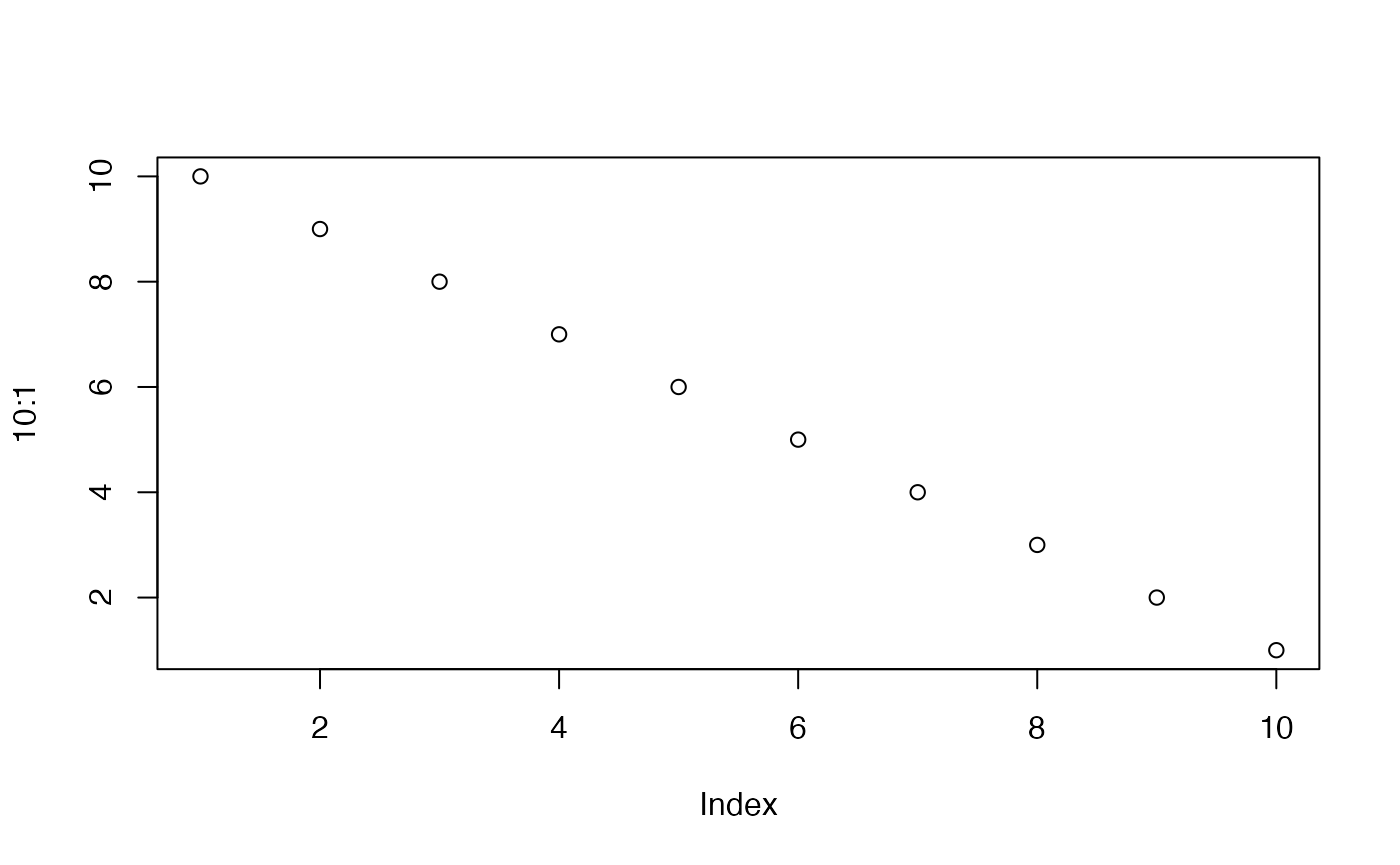
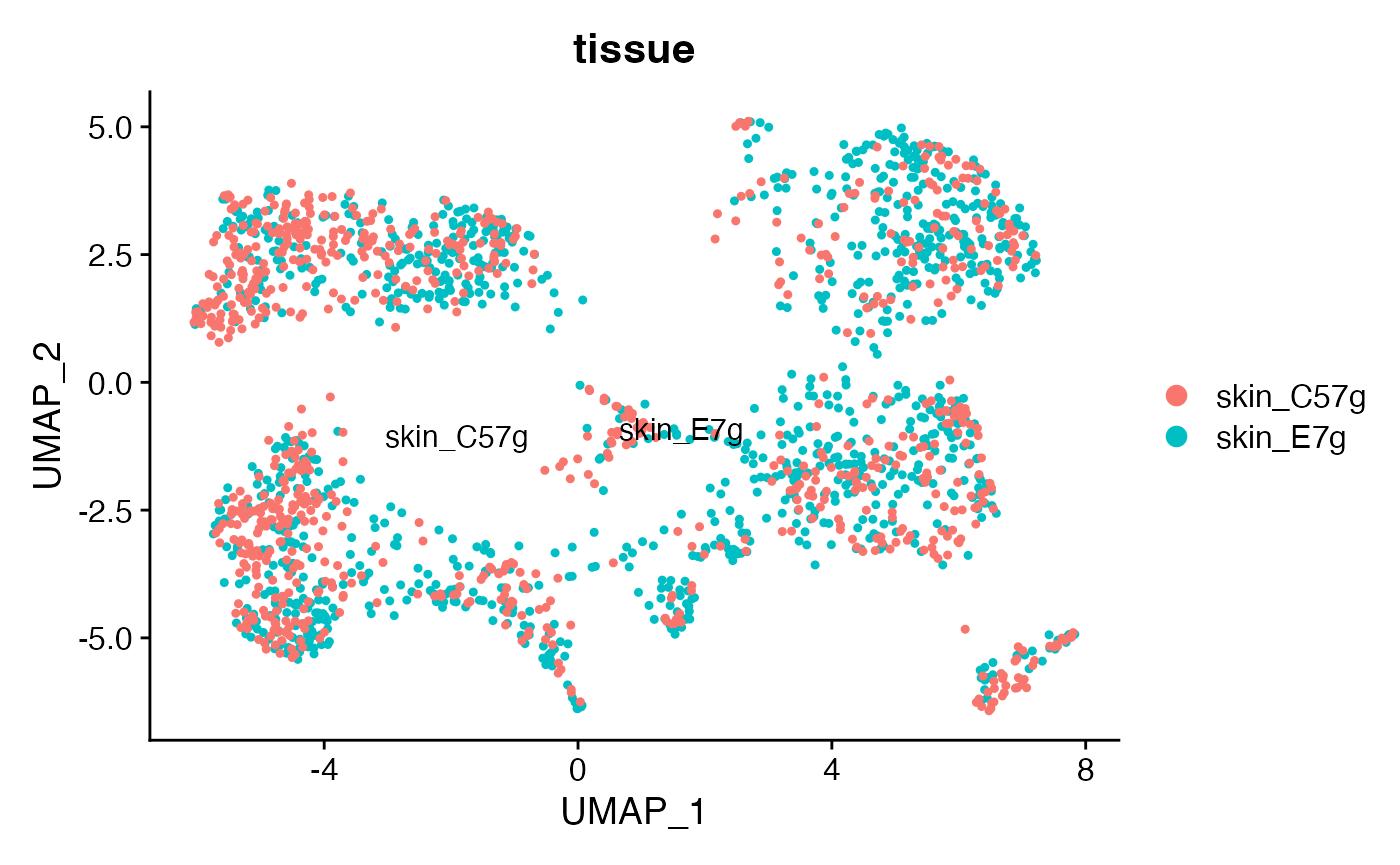
Update vignette

diff --git a/docs/articles/Introduction-to-czplots.html b/docs/articles/Introduction-to-czplots.html
@@ -77,7 +77,7 @@ Zhou</h4>
 for fast and intuitive analysis of scRNA-seq data. Here, we will go
 through a quick tutorial on how to use these functions.</p>
 <p>To get started, this package incudes a trimmed test dataset of 2,000
-mouse skin T cells derived from <a href="https://academic.oup.com/immunohorizons/article/5/2/102/7820221?login=true" class="external-link">Zhou
+mouse skin T cells downloaded from <a href="https://academic.oup.com/immunohorizons/article/5/2/102/7820221?login=true" class="external-link">Zhou
 et al 2021</a>. we will use this test dataset to demonstate key
 functions within this package.</p>
 <div class="sourceCode" id="cb1"><pre class="downlit sourceCode r">
@@ -85,27 +85,40 @@ functions within this package.</p>
 <span><span class="kw"><a href="https://rdrr.io/r/base/library.html" class="external-link">library</a></span><span class="op">(</span><span class="va"><a href="https://satijalab.org/seurat" class="external-link">Seurat</a></span><span class="op">)</span></span>
 <span></span>
 <span><span class="co">#load test dataset</span></span>
-<span><span class="fu"><a href="https://rdrr.io/r/utils/data.html" class="external-link">data</a></span><span class="op">(</span><span class="va">skin_tcell</span><span class="op">)</span></span>
-<span></span>
-<span><span class="va">skin_tcell</span><span class="op">@</span><span class="va">meta.data</span><span class="op">[</span><span class="fl">1</span><span class="op">:</span><span class="fl">2</span>,<span class="op">]</span></span>
-<span><span class="co">#                          orig.ident nCount_RNA nFeature_RNA   tissue percent.mt integrated_snn_res.0.5 seurat_clusters  TCR</span></span>
-<span><span class="co">#skin_E7g_AAAGCAACACCAGGTC gex_5prime       2690         1114 skin_E7g   1.784387                      0               0 TCR+</span></span>
-<span><span class="co">#skin_E7g_AAAGCAATCAAAGACA gex_5prime       1921          752 skin_E7g   2.134305                      0               0 TCR+</span></span></code></pre></div>
+<span><span class="fu"><a href="https://rdrr.io/r/utils/data.html" class="external-link">data</a></span><span class="op">(</span><span class="va">skin_tcell</span><span class="op">)</span></span></code></pre></div>
 <p>First, let’s take a look at the dataset. It includes 9 skin T cell
 clusters (C0–C8) derived from two mouse groups: K14E7 transgenic mice
 and wildtype C57BL/6 mice.</p>
+<div class="sourceCode" id="cb2"><pre class="downlit sourceCode r">
+<code class="sourceCode R"><span><span class="va">skin_tcell</span><span class="op">@</span><span class="va">meta.data</span><span class="op">[</span><span class="fl">1</span><span class="op">:</span><span class="fl">2</span>,<span class="op">]</span></span>
+<span><span class="co">#&gt;                           orig.ident nCount_RNA nFeature_RNA   tissue</span></span>
+<span><span class="co">#&gt; skin_E7g_AAAGCAACACCAGGTC gex_5prime       2690         1114 skin_E7g</span></span>
+<span><span class="co">#&gt; skin_E7g_AAAGCAATCGCATGGC gex_5prime       2496         1008 skin_E7g</span></span>
+<span><span class="co">#&gt;                           percent.mt integrated_snn_res.0.5 seurat_clusters</span></span>
+<span><span class="co">#&gt; skin_E7g_AAAGCAACACCAGGTC   1.784387                      0               0</span></span>
+<span><span class="co">#&gt; skin_E7g_AAAGCAATCGCATGGC   3.165064                      0               0</span></span>
+<span><span class="co">#&gt;                            TCR</span></span>
+<span><span class="co">#&gt; skin_E7g_AAAGCAACACCAGGTC TCR+</span></span>
+<span><span class="co">#&gt; skin_E7g_AAAGCAATCGCATGGC TCR+</span></span>
+<span></span>
+<span><span class="fu"><a href="https://rdrr.io/r/base/unique.html" class="external-link">unique</a></span><span class="op">(</span><span class="va">skin_tcell</span><span class="op">@</span><span class="va">meta.data</span><span class="op">$</span><span class="va">tissue</span><span class="op">)</span></span>
+<span><span class="co">#&gt; [1] "skin_E7g"  "skin_C57g"</span></span>
+<span></span>
+<span><span class="fu"><a href="https://rdrr.io/r/base/unique.html" class="external-link">unique</a></span><span class="op">(</span><span class="va">skin_tcell</span><span class="op">@</span><span class="va">meta.data</span><span class="op">$</span><span class="va">seurat_clusters</span><span class="op">)</span></span>
+<span><span class="co">#&gt; [1] 0 8 1 4 7 6 2 3 5</span></span>
+<span><span class="co">#&gt; Levels: 0 1 2 3 4 5 6 7 8</span></span></code></pre></div>
 <div class="section level2">
-<h2 id="cell-type-composition-analysis">cell type composition analysis<a class="anchor" aria-label="anchor" href="#cell-type-composition-analysis"></a>
+<h2 id="cell-type-composition-analysis">Cell type composition analysis<a class="anchor" aria-label="anchor" href="#cell-type-composition-analysis"></a>
 </h2>
 <p>A common starting point in most analyses is identifying which cell
 types are enriched in each group, condition, or disease. This package
 provides a fast and convenient way to calculate the proportion of each
 cluster within each group and visualize the differences using a bar
-chart. To use this function, the user must specify two arguments: group
-and level. Examples are provided below.”</p>
-<div class="sourceCode" id="cb2"><pre class="downlit sourceCode r">
+chart. To use this function, the user must specify two arguments: (1)
+group and (2) level. Examples are provided below.”</p>
+<div class="sourceCode" id="cb3"><pre class="downlit sourceCode r">
 <code class="sourceCode R"><span><span class="fu"><a href="../reference/countpercluster.html">countpercluster</a></span><span class="op">(</span><span class="va">skin_tcell</span>,group<span class="op">=</span><span class="st">"tissue"</span>,<span class="va">level</span><span class="op">&lt;-</span><span class="fu"><a href="https://rdrr.io/r/base/c.html" class="external-link">c</a></span><span class="op">(</span><span class="st">"skin_E7g"</span>,<span class="st">"skin_C57g"</span><span class="op">)</span><span class="op">)</span></span></code></pre></div>
-<p><img src="Introduction-to-czplots_files/figure-html/unnamed-chunk-1-1.png" width="700"></p>
+<p><img src="Introduction-to-czplots_files/figure-html/unnamed-chunk-3-1.png" width="700"></p>
 <pre><code><span><span class="co">#&gt;       skin_E7g skin_C57g skin_E7g_percent skin_C57g_percent</span></span>
 <span><span class="co">#&gt; C0         259       147            22.78             17.03</span></span>
 <span><span class="co">#&gt; C1         262       112            23.04             12.98</span></span>
@@ -121,216 +134,14 @@ and level. Examples are provided below.”</p>
 <div class="section level2">
 <h2 id="annotation">Annotation<a class="anchor" aria-label="anchor" href="#annotation"></a>
 </h2>
-<p>The <code>html_vignette</code> template includes a basic CSS theme.
-To override this theme you can specify your own CSS in the document
-metadata as follows:</p>
-<pre><code><span><span class="va">output</span><span class="op">:</span> </span>
-<span>  <span class="fu">rmarkdown</span><span class="fu">::</span><span class="va"><a href="https://pkgs.rstudio.com/rmarkdown/reference/html_vignette.html" class="external-link">html_vignette</a></span><span class="op">:</span></span>
-<span>    <span class="va">css</span><span class="op">:</span> <span class="va">mystyles.css</span></span></code></pre>
-</div>
-<div class="section level2">
-<h2 id="figures">Figures<a class="anchor" aria-label="anchor" href="#figures"></a>
-</h2>
-<p>The figure sizes have been customised so that you can easily put two
-images side-by-side.</p>
+<p>This function allows users to quickly generate the heatmap plots
+summarising expression pattern of selected gene markers. Plot 1 shows
+mean expression of each marker. Plot 2 shows percentage of cells that
+have non-zero expression of each marker.</p>
 <div class="sourceCode" id="cb5"><pre class="downlit sourceCode r">
-<code class="sourceCode R"><span><span class="fu"><a href="https://rdrr.io/r/graphics/plot.default.html" class="external-link">plot</a></span><span class="op">(</span><span class="fl">1</span><span class="op">:</span><span class="fl">10</span><span class="op">)</span></span>
-<span><span class="fu"><a href="https://rdrr.io/r/graphics/plot.default.html" class="external-link">plot</a></span><span class="op">(</span><span class="fl">10</span><span class="op">:</span><span class="fl">1</span><span class="op">)</span></span></code></pre></div>
-<p><img src="Introduction-to-czplots_files/figure-html/unnamed-chunk-2-1.png" width="700"><img src="Introduction-to-czplots_files/figure-html/unnamed-chunk-2-2.png" width="700"></p>
-<p>You can enable figure captions by <code>fig_caption: yes</code> in
-YAML:</p>
-<pre><code><span><span class="va">output</span><span class="op">:</span></span>
-<span>  <span class="fu">rmarkdown</span><span class="fu">::</span><span class="va"><a href="https://pkgs.rstudio.com/rmarkdown/reference/html_vignette.html" class="external-link">html_vignette</a></span><span class="op">:</span></span>
-<span>    <span class="va">fig_caption</span><span class="op">:</span> <span class="va">yes</span></span></code></pre>
-<p>Then you can use the chunk option
-<code>fig.cap = "Your figure caption."</code> in
-<strong>knitr</strong>.</p>
+<code class="sourceCode R"><span><span class="fu"><a href="../reference/annotation_heatmap.html">annotation_heatmap</a></span><span class="op">(</span><span class="va">skin_tcell</span>,gene<span class="op">=</span><span class="fu"><a href="https://rdrr.io/r/base/c.html" class="external-link">c</a></span><span class="op">(</span><span class="st">"Cd44"</span>,<span class="st">"Cd69"</span>,<span class="st">"Itgae"</span>,<span class="st">"Ccr7"</span>,<span class="st">"Il7r"</span>,<span class="st">"Tbx21"</span>,<span class="st">"Ifng"</span>,<span class="st">"Il2"</span>,<span class="st">"Gata3"</span>,<span class="st">"Il4"</span>,<span class="st">"Il5"</span>,<span class="st">"Foxp3"</span>,<span class="st">"Ctla4"</span>,<span class="st">"Pdcd1"</span>,<span class="st">"Tigit"</span>,<span class="st">"Il2ra"</span>,<span class="st">"Gzmb"</span>,<span class="st">"Il10"</span>,<span class="st">"Il17a"</span>,<span class="st">"Cxcr5"</span>,<span class="st">"Bcl6"</span>,<span class="st">"Cd8a"</span>,<span class="st">"Cd4"</span><span class="op">)</span>,group<span class="op">=</span><span class="st">"seurat_clusters"</span><span class="op">)</span></span></code></pre></div>
+<p><img src="Introduction-to-czplots_files/figure-html/unnamed-chunk-4-1.png" width="700"><img src="Introduction-to-czplots_files/figure-html/unnamed-chunk-4-2.png" width="700"></p>
 </div>
-<div class="section level2">
-<h2 id="more-examples">More Examples<a class="anchor" aria-label="anchor" href="#more-examples"></a>
-</h2>
-<p>You can write math expressions, e.g. <span class="math inline">\(Y =
-X\beta + \epsilon\)</span>, footnotes<a class="footnote-ref" tabindex="0" data-bs-toggle="popover" data-bs-content="&lt;p&gt;A footnote here.&lt;/p&gt;"><sup>1</sup></a>, and tables, e.g. using
-<code><a href="https://rdrr.io/pkg/knitr/man/kable.html" class="external-link">knitr::kable()</a></code>.</p>
-<table style="width:100%;" class="table">
-<colgroup>
-<col width="25%">
-<col width="7%">
-<col width="5%">
-<col width="8%">
-<col width="5%">
-<col width="7%">
-<col width="8%">
-<col width="8%">
-<col width="4%">
-<col width="4%">
-<col width="7%">
-<col width="7%">
-</colgroup>
-<thead><tr class="header">
-<th align="left"></th>
-<th align="right">mpg</th>
-<th align="right">cyl</th>
-<th align="right">disp</th>
-<th align="right">hp</th>
-<th align="right">drat</th>
-<th align="right">wt</th>
-<th align="right">qsec</th>
-<th align="right">vs</th>
-<th align="right">am</th>
-<th align="right">gear</th>
-<th align="right">carb</th>
-</tr></thead>
-<tbody>
-<tr class="odd">
-<td align="left">Mazda RX4</td>
-<td align="right">21.0</td>
-<td align="right">6</td>
-<td align="right">160.0</td>
-<td align="right">110</td>
-<td align="right">3.90</td>
-<td align="right">2.620</td>
-<td align="right">16.46</td>
-<td align="right">0</td>
-<td align="right">1</td>
-<td align="right">4</td>
-<td align="right">4</td>
-</tr>
-<tr class="even">
-<td align="left">Mazda RX4 Wag</td>
-<td align="right">21.0</td>
-<td align="right">6</td>
-<td align="right">160.0</td>
-<td align="right">110</td>
-<td align="right">3.90</td>
-<td align="right">2.875</td>
-<td align="right">17.02</td>
-<td align="right">0</td>
-<td align="right">1</td>
-<td align="right">4</td>
-<td align="right">4</td>
-</tr>
-<tr class="odd">
-<td align="left">Datsun 710</td>
-<td align="right">22.8</td>
-<td align="right">4</td>
-<td align="right">108.0</td>
-<td align="right">93</td>
-<td align="right">3.85</td>
-<td align="right">2.320</td>
-<td align="right">18.61</td>
-<td align="right">1</td>
-<td align="right">1</td>
-<td align="right">4</td>
-<td align="right">1</td>
-</tr>
-<tr class="even">
-<td align="left">Hornet 4 Drive</td>
-<td align="right">21.4</td>
-<td align="right">6</td>
-<td align="right">258.0</td>
-<td align="right">110</td>
-<td align="right">3.08</td>
-<td align="right">3.215</td>
-<td align="right">19.44</td>
-<td align="right">1</td>
-<td align="right">0</td>
-<td align="right">3</td>
-<td align="right">1</td>
-</tr>
-<tr class="odd">
-<td align="left">Hornet Sportabout</td>
-<td align="right">18.7</td>
-<td align="right">8</td>
-<td align="right">360.0</td>
-<td align="right">175</td>
-<td align="right">3.15</td>
-<td align="right">3.440</td>
-<td align="right">17.02</td>
-<td align="right">0</td>
-<td align="right">0</td>
-<td align="right">3</td>
-<td align="right">2</td>
-</tr>
-<tr class="even">
-<td align="left">Valiant</td>
-<td align="right">18.1</td>
-<td align="right">6</td>
-<td align="right">225.0</td>
-<td align="right">105</td>
-<td align="right">2.76</td>
-<td align="right">3.460</td>
-<td align="right">20.22</td>
-<td align="right">1</td>
-<td align="right">0</td>
-<td align="right">3</td>
-<td align="right">1</td>
-</tr>
-<tr class="odd">
-<td align="left">Duster 360</td>
-<td align="right">14.3</td>
-<td align="right">8</td>
-<td align="right">360.0</td>
-<td align="right">245</td>
-<td align="right">3.21</td>
-<td align="right">3.570</td>
-<td align="right">15.84</td>
-<td align="right">0</td>
-<td align="right">0</td>
-<td align="right">3</td>
-<td align="right">4</td>
-</tr>
-<tr class="even">
-<td align="left">Merc 240D</td>
-<td align="right">24.4</td>
-<td align="right">4</td>
-<td align="right">146.7</td>
-<td align="right">62</td>
-<td align="right">3.69</td>
-<td align="right">3.190</td>
-<td align="right">20.00</td>
-<td align="right">1</td>
-<td align="right">0</td>
-<td align="right">4</td>
-<td align="right">2</td>
-</tr>
-<tr class="odd">
-<td align="left">Merc 230</td>
-<td align="right">22.8</td>
-<td align="right">4</td>
-<td align="right">140.8</td>
-<td align="right">95</td>
-<td align="right">3.92</td>
-<td align="right">3.150</td>
-<td align="right">22.90</td>
-<td align="right">1</td>
-<td align="right">0</td>
-<td align="right">4</td>
-<td align="right">2</td>
-</tr>
-<tr class="even">
-<td align="left">Merc 280</td>
-<td align="right">19.2</td>
-<td align="right">6</td>
-<td align="right">167.6</td>
-<td align="right">123</td>
-<td align="right">3.92</td>
-<td align="right">3.440</td>
-<td align="right">18.30</td>
-<td align="right">1</td>
-<td align="right">0</td>
-<td align="right">4</td>
-<td align="right">4</td>
-</tr>
-</tbody>
-</table>
-<p>Also a quote using <code>&gt;</code>:</p>
-<blockquote>
-<p>“He who gives up [code] safety for [code] speed deserves neither.”
-(<a href="https://twitter.com/hadleywickham/status/504368538874703872" class="external-link">via</a>)</p>
-</blockquote>
-</div>
-
   </main><aside class="col-md-3"><nav id="toc"><h2>On this page</h2>
     </nav></aside>
 </div>

diff --git a/docs/index.html b/docs/index.html
@@ -82,7 +82,7 @@
 <span><span class="fu"><a href="https://rdrr.io/r/utils/data.html" class="external-link">data</a></span><span class="op">(</span><span class="va">skin_tcell</span><span class="op">)</span></span>
 <span></span>
 <span><span class="co">#calculate compositional change for each cell cluster between two experimental groups and return a table and bar charts</span></span>
-<span><span class="fu"><a href="reference/countpercluster.html">countpercluster</a></span><span class="op">(</span><span class="va">skin_tcell</span>,group <span class="op">=</span> <span class="st">"tissue"</span><span class="op">)</span></span>
+<span><span class="fu"><a href="reference/countpercluster.html">countpercluster</a></span><span class="op">(</span><span class="va">skin_tcell</span>,group <span class="op">=</span> <span class="st">"tissue"</span>,<span class="va">level</span><span class="op">&lt;-</span><span class="fu"><a href="https://rdrr.io/r/base/c.html" class="external-link">c</a></span><span class="op">(</span><span class="st">"skin_E7g"</span>,<span class="st">"skin_C57g"</span><span class="op">)</span><span class="op">)</span></span>
 <span></span>
 <span><span class="co">#plot heatmap to visualize expression of provided key markers in each cell cluster or experimental group</span></span>
 <span><span class="fu"><a href="reference/annotation_heatmap.html">annotation_heatmap</a></span><span class="op">(</span><span class="va">skin_tcell</span>,gene <span class="op">=</span> <span class="fu"><a href="https://rdrr.io/r/base/c.html" class="external-link">c</a></span><span class="op">(</span><span class="st">"Cd44"</span>,<span class="st">"Cd69"</span><span class="op">)</span>, group <span class="op">=</span> <span class="st">"seurat_clusters"</span><span class="op">)</span></span></code></pre></div>

diff --git a/docs/articles/custom.css b/docs/articles/custom.css
@@ -1,19 +1,20 @@
 /* Change body font and size */
 body {
   font-family: "Arial", sans-serif;  /* or "Times New Roman", "Georgia", etc. */
-  font-size: 14px;                   /* adjust as needed */
+  font-size: 8px;                   /* adjust as needed */
   line-height: 1.5;
 }
 
 /* Headings style */
 h1, h2, h3, h4 {
-  font-family: "Georgia", serif;
+  font-family: "Arial", serif;
   font-weight: bold;
+  font-size: 10px;
   color: #2a3f5f;  /* optional */
 }
 
 /* Code blocks */
 pre, code {
   font-family: "Courier New", monospace;
-  font-size: 12px;
+  font-size: 8px;
 }

diff --git a/vignettes/custom.css b/vignettes/custom.css
@@ -1,19 +1,20 @@
 /* Change body font and size */
 body {
   font-family: "Arial", sans-serif;  /* or "Times New Roman", "Georgia", etc. */
-  font-size: 14px;                   /* adjust as needed */
+  font-size: 8px;                   /* adjust as needed */
   line-height: 1.5;
 }
 
 /* Headings style */
 h1, h2, h3, h4 {
-  font-family: "Georgia", serif;
+  font-family: "Arial", serif;
   font-weight: bold;
+  font-size: 10px;
   color: #2a3f5f;  /* optional */
 }
 
 /* Code blocks */
 pre, code {
   font-family: "Courier New", monospace;
-  font-size: 12px;
+  font-size: 8px;
 }

diff --git a/README.md b/README.md
@@ -36,7 +36,7 @@ library(czplots)
 data(skin_tcell)
 
 #calculate compositional change for each cell cluster between two experimental groups and return a table and bar charts
-countpercluster(skin_tcell,group = "tissue")
+countpercluster(skin_tcell,group = "tissue",level<-c("skin_E7g","skin_C57g"))
 
 #plot heatmap to visualize expression of provided key markers in each cell cluster or experimental group
 annotation_heatmap(skin_tcell,gene = c("Cd44","Cd69"), group = "seurat_clusters")
